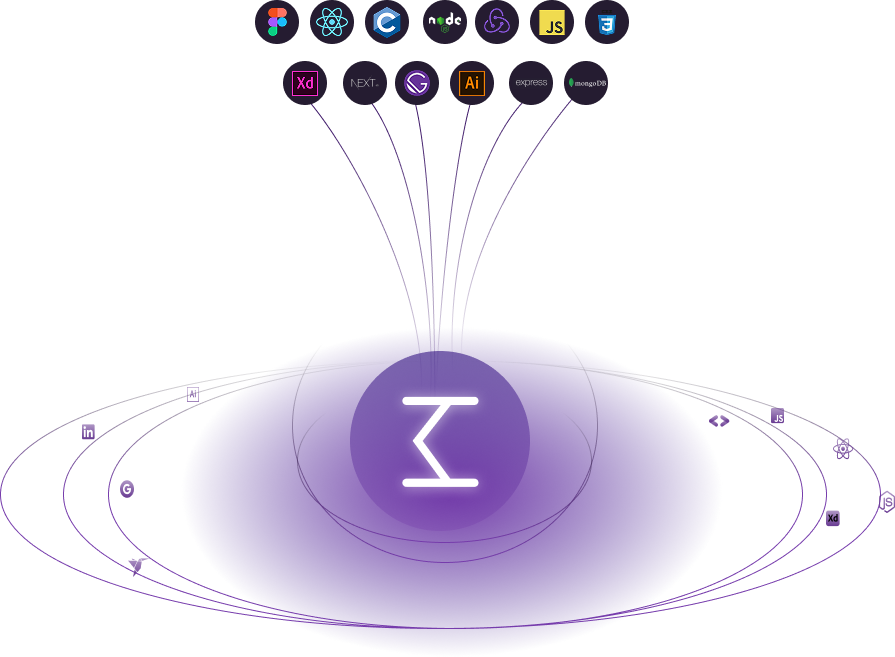
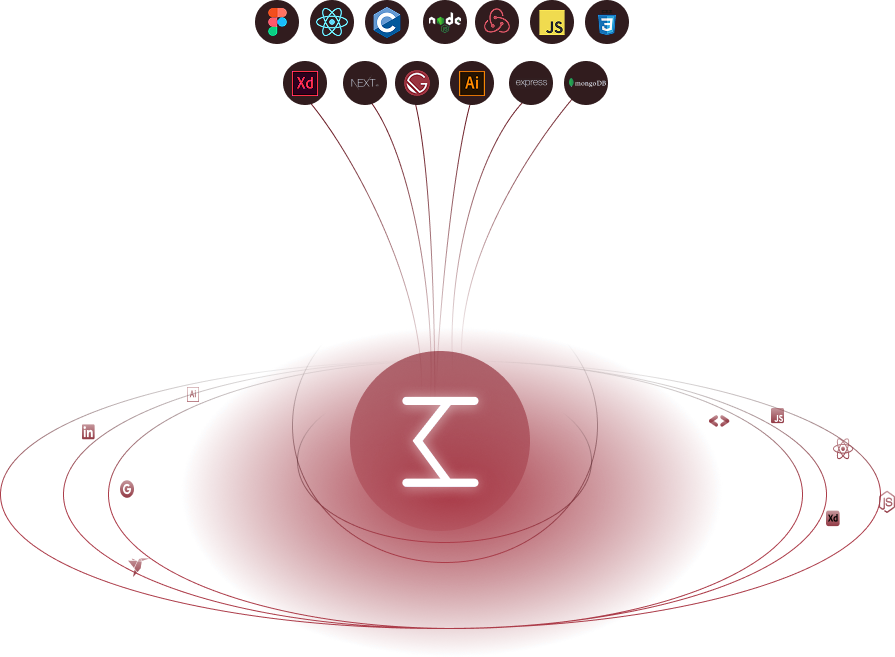
Recolor skills illustration purple to red, overlay CodedInk drop in center
- illustration.png: hue-shift purple pixels (H 0.68-0.88, saturation >0.1) to red (hue 0.98) so the orbital glow matches the site palette
- About.tsx: wrap illustration in relative container and overlay favicon.svg at 13% width, centered on the former K orb

diff --git a/app/components/About.tsx b/app/components/About.tsx
@@ -12,14 +12,30 @@ export default function About(): React.JSX.Element {
             improving people&apos;s lives through accessible design</span>
           </p>
         </div>
-        <Image 
-          src={asset("/assets/illustration.png")}
-          alt="Skills"
-          width={800}
-          height={800}
-          className="object-cover mx-auto"
-          style={{ width: "auto", height: "auto" }}
-        />
+        <div className="relative mx-auto" style={{ maxWidth: "895px" }}>
+          <Image
+            src={asset("/assets/illustration.png")}
+            alt="Skills"
+            width={895}
+            height={657}
+            className="object-cover mx-auto"
+            style={{ width: "100%", height: "auto" }}
+          />
+          <Image
+            src={asset("/assets/favicon.svg")}
+            alt="CodedInk"
+            width={120}
+            height={120}
+            className="absolute"
+            style={{
+              left: "50%",
+              top: "66%",
+              width: "13%",
+              height: "auto",
+              transform: "translate(-50%, -50%)",
+            }}
+          />
+        </div>
       </div>
     </section>
   );
